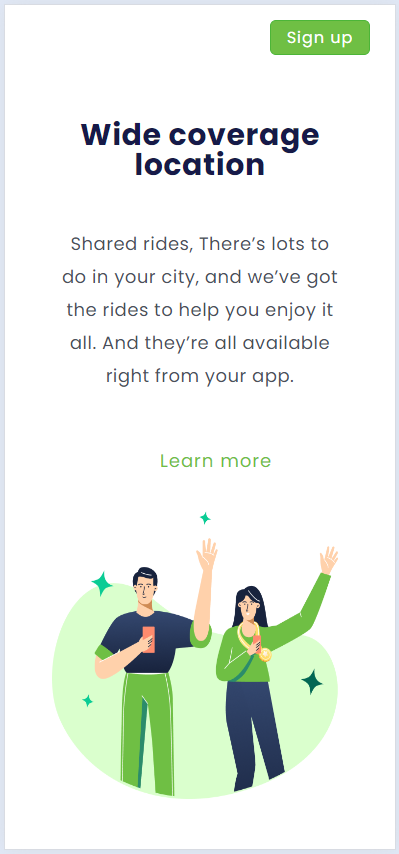
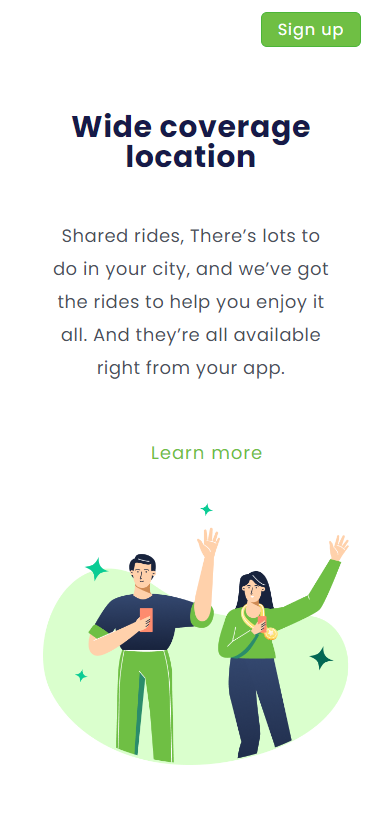
alteração no css e na imagem

diff --git a/styles.css b/styles.css
@@ -99,12 +99,10 @@ p {
     }
 
     img {
-        display: inline-block;
-        width: 312px;
-        height: 288px;
+        display: block;
         top: 60%;
         left: 12%;
-        max-width: 75%;
+        max-width: 80%;
     }
 
     h1 {
